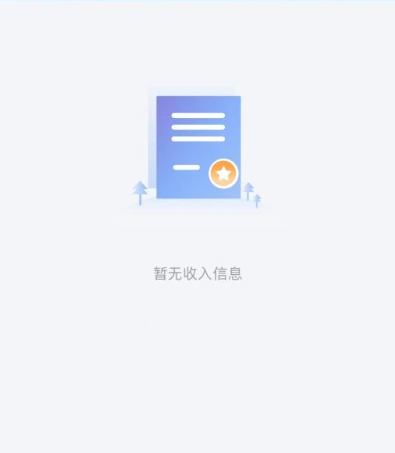
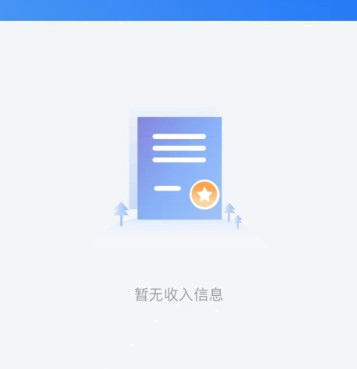
fix: 申报收入明细空状态对齐官方劳务报酬样式
去除插画内嵌文案导致的重复「暂无收入信息」，透明底插画与浅灰空白区、纵向渐变金额条。

Changed region(s): [[0.3081, 0.2087, 0.6779, 0.626], [0.0, 0.0, 1.0, 0.0596], [0.3697, 0.7751, 0.6162, 0.8347]]

diff --git a/frontend/shenbao_income_detail.html b/frontend/shenbao_income_detail.html
@@ -104,46 +104,53 @@
             left: 50%;
             bottom: 0;
             transform: translateX(-50%);
-            width: 28px;
+            width: 32px;
             height: 3px;
             background: #1e6fff;
-            border-radius: 2px;
+            border-radius: 1.5px;
+        }
+        .header::after {
+            content: '';
+            display: block;
+            height: 1px;
+            background: #eee;
         }
         .summary {
-            background: linear-gradient(135deg, #3a8cff 0%, #1e6fff 48%, #1a5fe6 100%);
-            padding: 16px 16px 22px;
+            background: linear-gradient(180deg, #4b9cff 0%, #2b84ff 42%, #1e6fff 100%);
+            padding: 18px 16px 24px;
             color: #fff;
             flex-shrink: 0;
             position: relative;
             z-index: 0;
         }
         .summary-label {
-            font-size: 13px;
-            margin-bottom: 8px;
+            font-size: 14px;
+            margin-bottom: 10px;
             font-weight: 400;
+            opacity: 0.98;
         }
         .summary-value {
-            font-size: 34px;
+            font-size: 36px;
             font-weight: 600;
             font-variant-numeric: tabular-nums;
-            letter-spacing: -0.03em;
-            line-height: 1.15;
+            letter-spacing: -0.02em;
+            line-height: 1.1;
         }
         .summary-value .unit {
-            font-size: 17px;
+            font-size: 18px;
             font-weight: 500;
-            margin-left: 4px;
+            margin-left: 6px;
         }
         .list-wrap {
             flex: 1;
             background: #fff;
         }
         .list-wrap.is-empty {
-            background: #fff;
+            background: #f5f6fa;
             display: flex;
             flex-direction: column;
             flex: 1;
-            min-height: 280px;
+            min-height: 0;
         }
         .income-list {
             list-style: none;
@@ -201,20 +208,22 @@
             display: none;
             flex-direction: column;
             align-items: center;
-            justify-content: flex-start;
-            padding: 52px 24px 80px;
+            justify-content: center;
+            padding: 0 24px;
             flex: 1;
             width: 100%;
+            min-height: 360px;
         }
         .list-wrap.is-empty .empty-state {
             display: flex;
         }
         .empty-illustration {
-            width: 100%;
-            max-width: min(300px, 68vw);
-            margin: 0 auto 18px;
+            width: auto;
+            max-width: min(240px, 56vw);
+            margin: 0 auto 20px;
             display: flex;
             justify-content: center;
+            background: transparent;
         }
         .empty-illustration img {
             width: 100%;
@@ -223,12 +232,14 @@
             object-fit: contain;
             -webkit-user-select: none;
             user-select: none;
+            background: transparent;
         }
         .empty-state p {
-            font-size: 15px;
-            color: #999;
+            font-size: 14px;
+            color: #aaa;
             text-align: center;
-            line-height: 1.4;
+            line-height: 1.5;
+            margin: 0;
         }
         .edit-mask {
             display: none;
@@ -351,6 +362,6 @@
 
     <script src="/js/watermark.js?v=20260511-mine-wm"></script>
     <script src="/js/shenbao_jilu_store.js?v=20260524-income-color"></script>
-    <script src="/js/shenbao_income_detail.js?v=20260526-income-empty"></script>
+    <script src="/js/shenbao_income_detail.js?v=20260526-income-empty2"></script>
 </body>
 </html>
